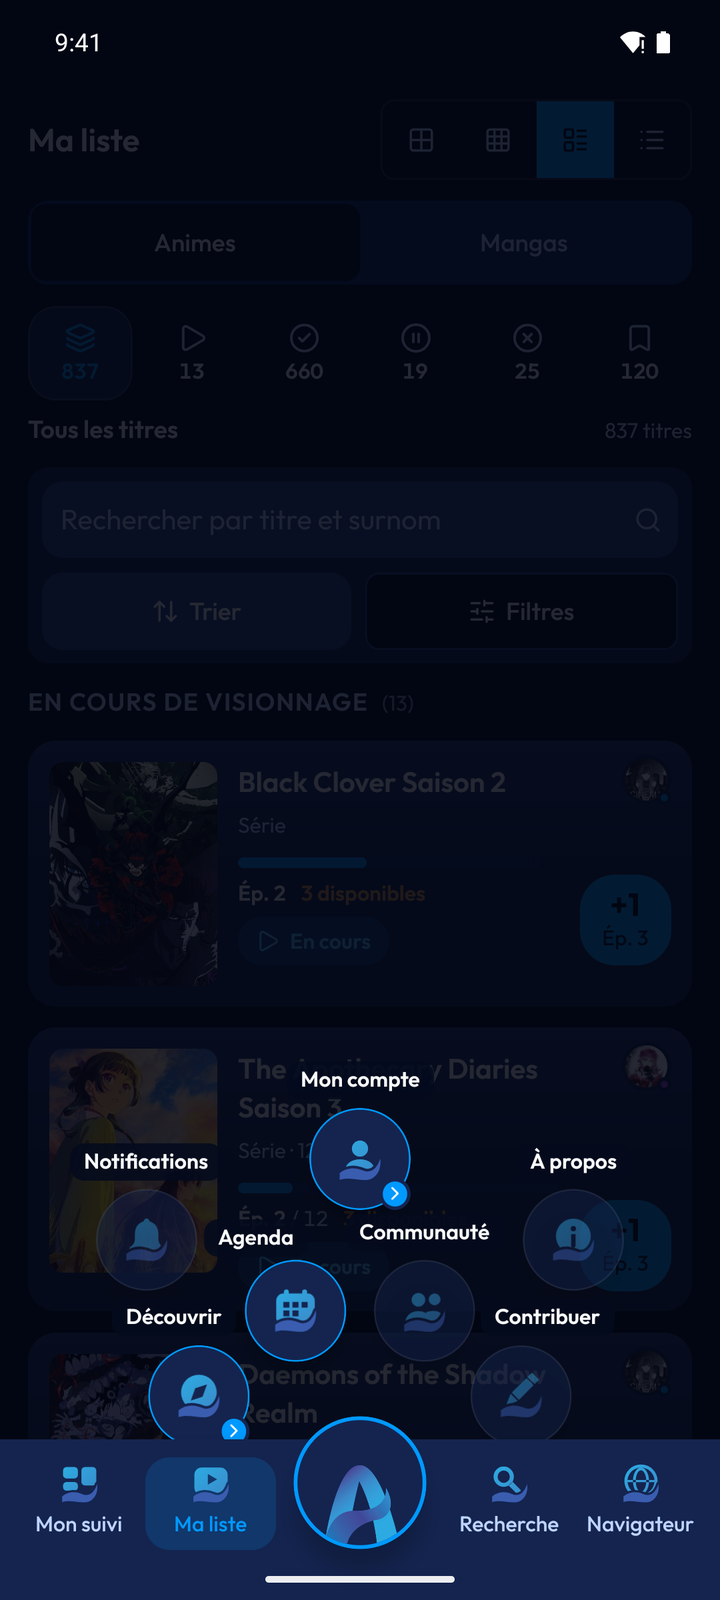
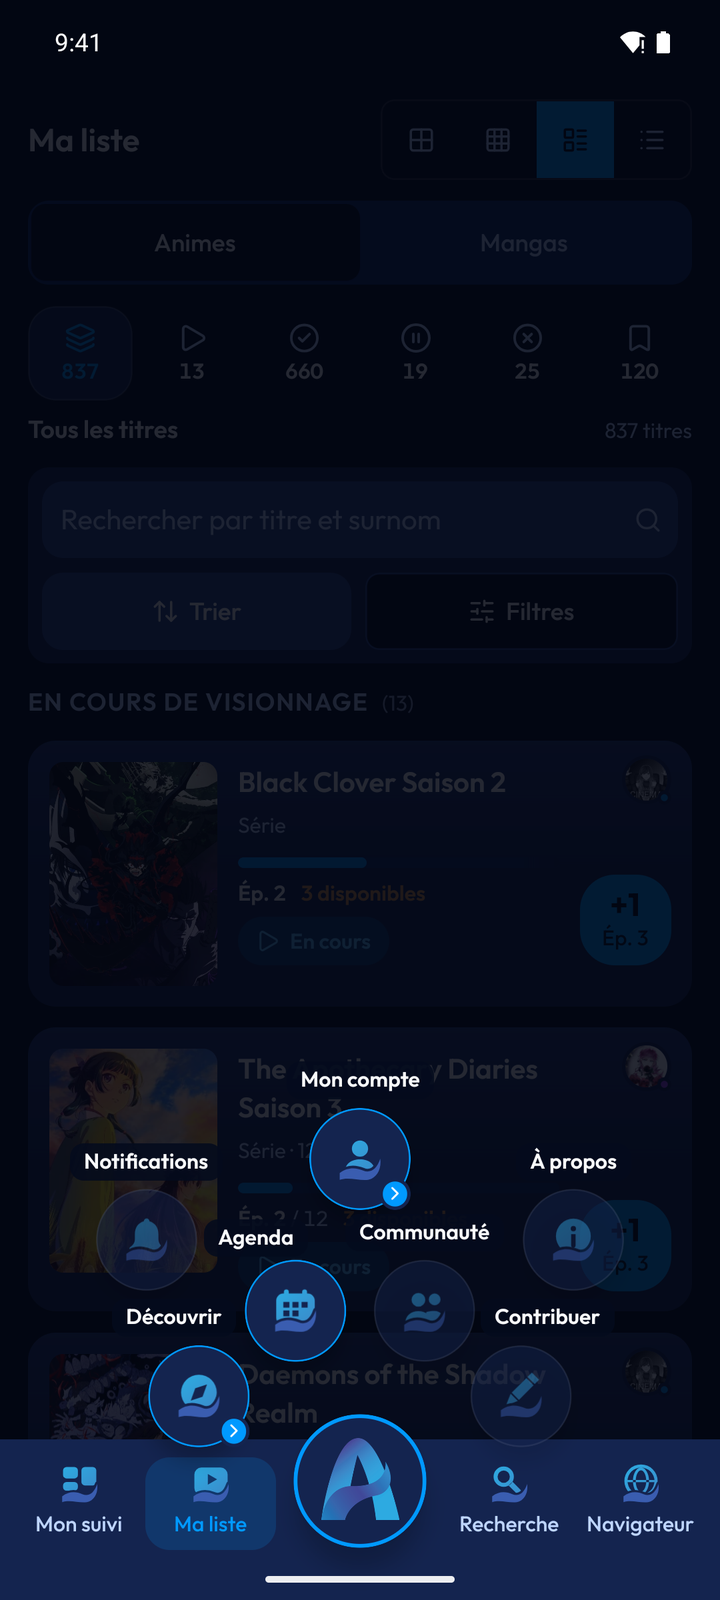
docs: capture du tiroir d'entrée et de l'éventail corrigé

Changed region(s): [[0.4278, 0.875, 0.5806, 0.9688]]

diff --git a/README.md b/README.md
@@ -34,11 +34,12 @@ Ce qui n'est pas encore dans l'application est grisé avec la mention « Bientô
 
 <div align="center">
 
-<img src="docs/screenshots/02-ma-liste.png" alt="Ma liste" width="19%" />
-<img src="docs/screenshots/05-fiche-personnages-staff.png" alt="Personnages, staff et musiques" width="19%" />
-<img src="docs/screenshots/09-personnage.png" alt="Fiche d'un personnage" width="19%" />
-<img src="docs/screenshots/11-eventail.png" alt="Éventail de navigation" width="19%" />
-<img src="docs/screenshots/10-parametres.png" alt="Paramètres" width="19%" />
+<img src="docs/screenshots/02-ma-liste.png" alt="Ma liste" width="16%" />
+<img src="docs/screenshots/06-tiroir-entree.png" alt="Modification rapide d'une entrée" width="16%" />
+<img src="docs/screenshots/05-fiche-personnages-staff.png" alt="Personnages, staff et musiques" width="16%" />
+<img src="docs/screenshots/09-personnage.png" alt="Fiche d'un personnage" width="16%" />
+<img src="docs/screenshots/11-eventail.png" alt="Éventail de navigation" width="16%" />
+<img src="docs/screenshots/10-parametres.png" alt="Paramètres" width="16%" />
 
 </div>
 
